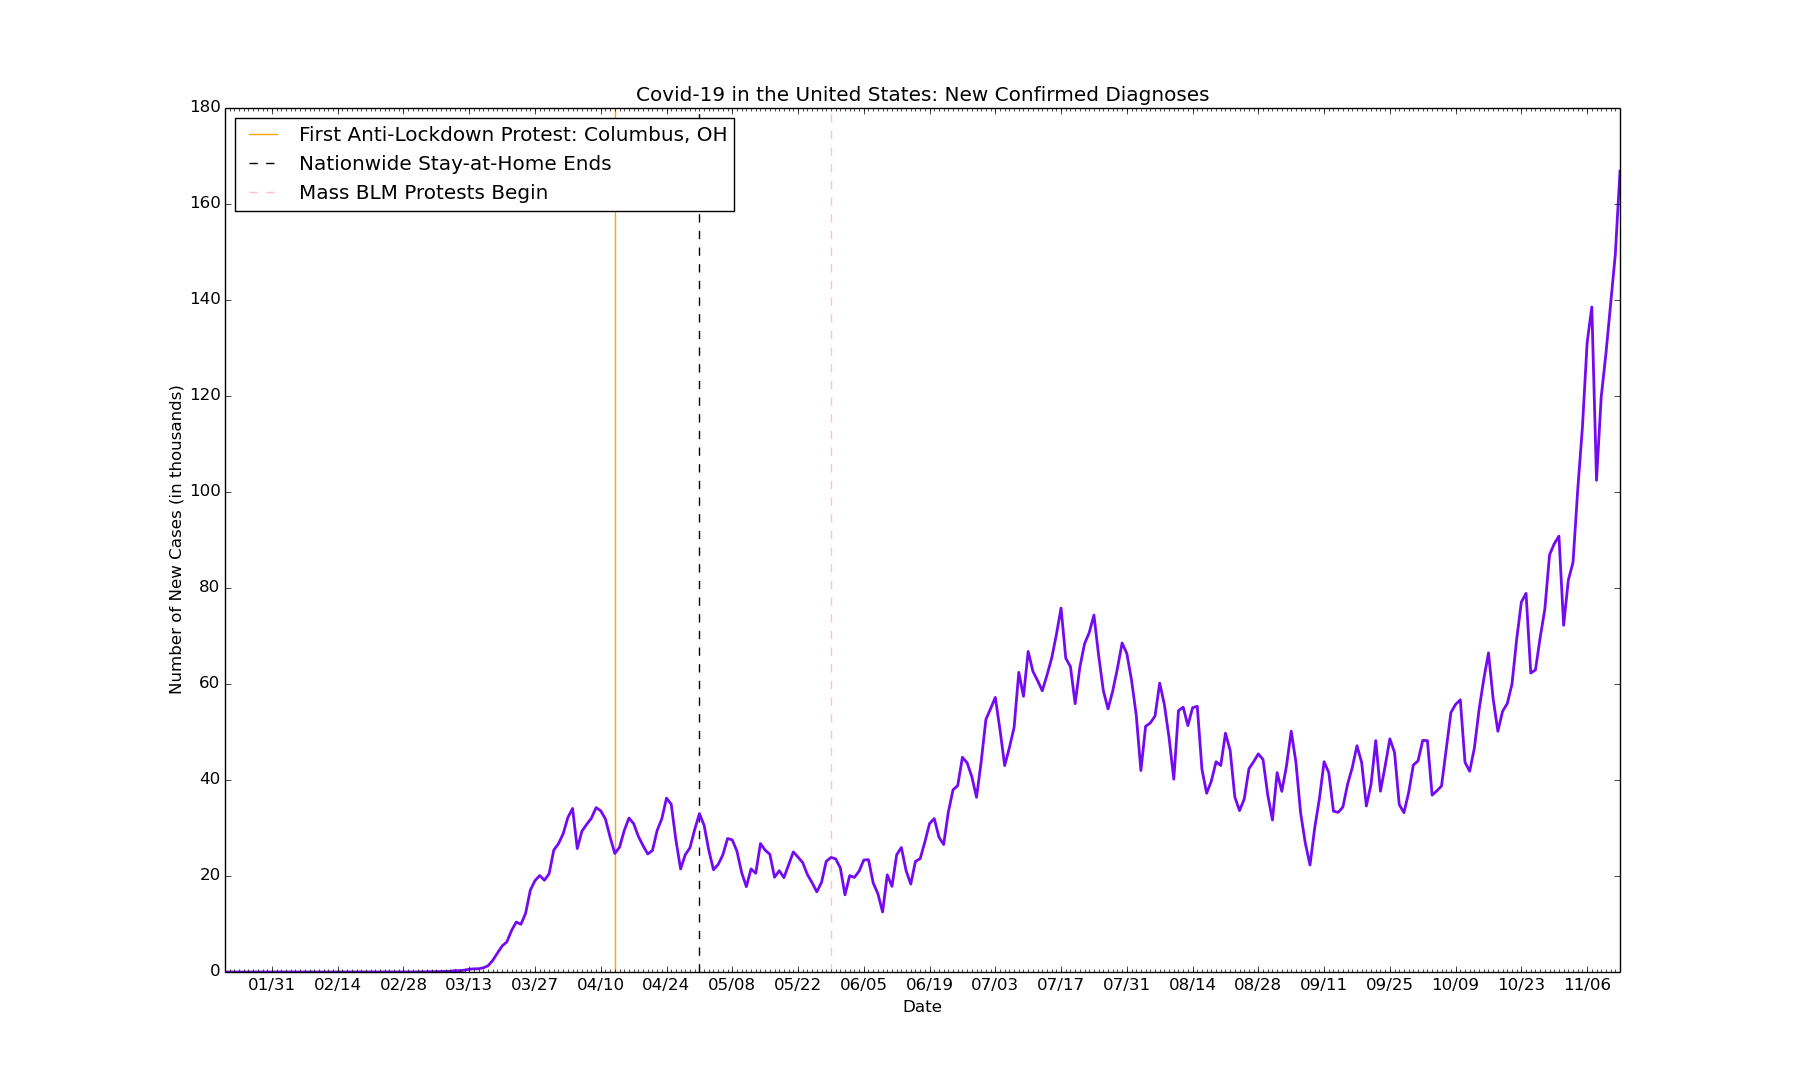
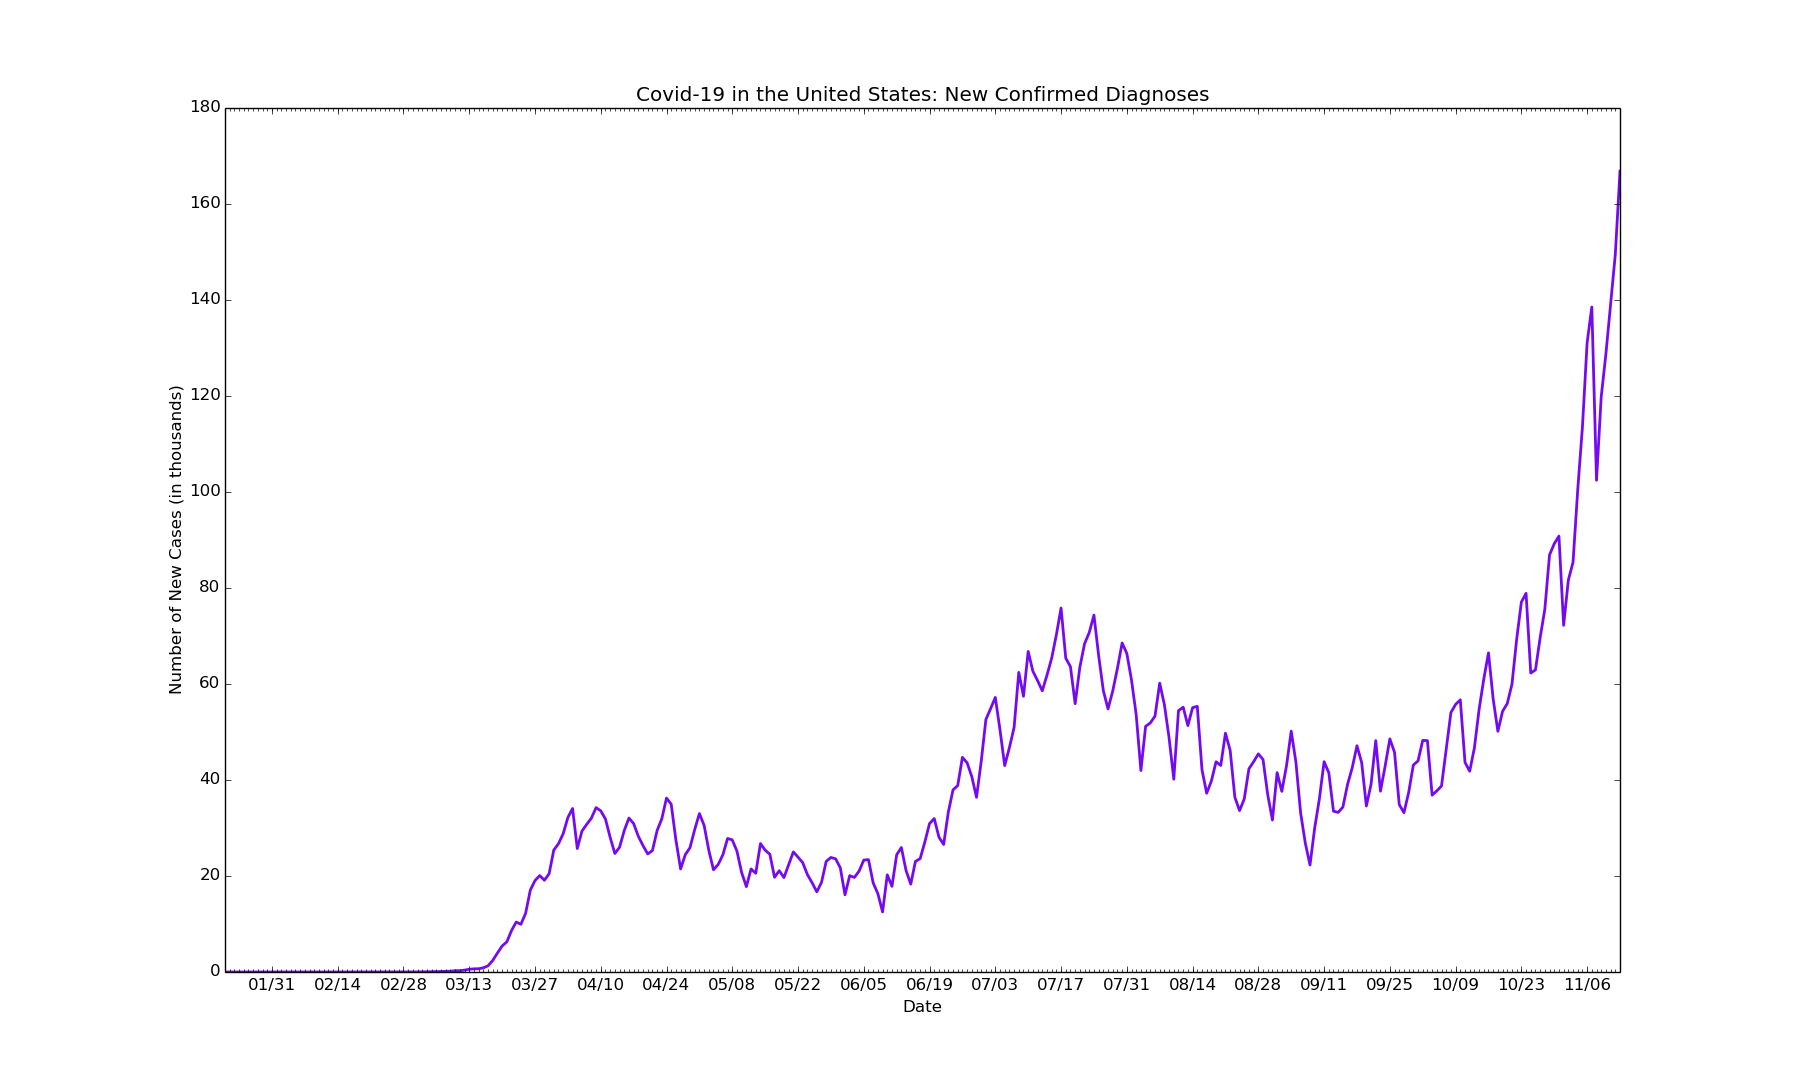
Modify graphs structure

Changed region(s): [[0.1244, 0.0917, 0.4044, 0.2139]]

diff --git a/usa/us-new.py b/usa/us-new.py
@@ -24,16 +24,6 @@ ax.xaxis.set_minor_locator(mdates.WeekdayLocator(
 ax.get_yaxis().set_major_formatter(
     ticker.FuncFormatter(lambda x, pos: format(int(x/1000))))
 
-# first anti-lockdown protest: Columbus, OH on April 13
-plt.axvline(dt.datetime(2020, 4, 13), linestyle='-',
-            color='orange', linewidth=1, label='protest')
-# nationwide lockdown lifted
-plt.axvline(dt.datetime(2020, 5, 1), linestyle='--',
-            color='black', linewidth=1, label='lift')
-# first day of mass BLM protests
-plt.axvline(dt.datetime(2020, 5, 29), linestyle='--',
-            color='pink', linewidth=1, label='lift')
-
 # new cases by day
 new_cases = [1, 0, 0, 1, 1, 2, 0, 0, 0, 1, 1, 1, 3, 0, 0, 1, 0, 0, 0, 0, 0, 0, 0, 0, 0, 0, 0, 0, 0, 0, 2, 0, 0, 0, 0, 0, 1, 0, 4, 5, 18, 15, 28, 26, 64, 77, 101, 144, 148, 291, 269, 393, 565, 662, 676, 872, 1291, 2410, 3948, 5417, 6271, 8631, 10410, 9939, 12226, 17050, 19046, 20093, 19118, 20463, 25396, 26732, 28812, 32182, 34068, 25717, 29362, 30752, 32039, 34243, 33578, 31869, 28057, 24685, 25987, 29465, 32076, 30915, 28274, 26323, 24593, 25304, 29473, 31926, 36229, 34955, 27488, 21464, 24447, 25904, 29674, 33007, 30568, 25375, 21296, 22404, 24420, 27822, 27518, 25158, 20698, 17779, 21475, 20568, 26754, 25382, 24527, 19731, 21107, 19662, 22368, 25017, 23923, 22784, 20286, 18586, 16700, 18677, 23051, 23862, 23581, 21703, 16079, 20073, 19703, 21021, 23324, 23408, 18556, 16316, 12506, 20246, 17849, 24421, 25941, 21141, 18310, 23048, 23620, 27082, 30927, 31963, 28095, 26558, 33315, 37950,
              38848, 44726, 43581, 40691, 36390, 43865, 52609, 54869, 57209, 50445, 43003, 46731, 50940, 62425, 57437, 66786, 62653, 60719, 58579, 61834, 65370, 70254, 75821, 65389, 63591, 55896, 63496, 68377, 70719, 74360, 65944, 58631, 54806, 58540, 63255, 68543, 66364, 60817, 53561, 41963, 51185, 51884, 53305, 60184, 55692, 48769, 40171, 54443, 55170, 51335, 55057, 55348, 42181, 37240, 39794, 43798, 43027, 49743, 46183, 36422, 33618, 36047, 42335, 43814, 45447, 44269, 36939, 31658, 41535, 37630, 42973, 50183, 43725, 33174, 26850, 22292, 30011, 36080, 43811, 41534, 33506, 33252, 34364, 39095, 42592, 47136, 43628, 34586, 39127, 48206, 37666, 42917, 48567, 45752, 34892, 33189, 37368, 43119, 43979, 48249, 48200, 36845, 37737, 38752, 46477, 54043, 55757, 56700, 43677, 41828, 46691, 54696, 61026, 66487, 56862, 50144, 54312, 55934, 59962, 69302, 77057, 78890, 62285, 62938, 69652, 75605, 86898, 89223, 90805, 72226, 81650, 85361, 100456, 113498, 131084, 138546, 102444, 119825, 128772, 139231, 149472, 166850]
@@ -42,8 +32,6 @@ new_cases = [1, 0, 0, 1, 1, 2, 0, 0, 0, 1, 1, 1, 3, 0, 0, 1, 0, 0, 0, 0, 0, 0, 0
 plt.title('Covid-19 in the United States: New Confirmed Diagnoses')
 plt.xlabel('Date')
 plt.ylabel('Number of New Cases (in thousands)')
-plt.legend(['First Anti-Lockdown Protest: Columbus, OH',
-            'Nationwide Stay-at-Home Ends', 'Mass BLM Protests Begin'], loc='upper left')
 
 # create the graph
 plt.plot(x_values, new_cases, color='#730af2', linewidth=2)

diff --git a/nyc/nyc-new-cases.py b/nyc/nyc-new-cases.py
@@ -39,9 +39,6 @@ plt.axvline(dt.datetime(2020, 4, 29), color='black',
 # reopening, phase 1
 plt.axvline(dt.datetime(2020, 6, 8), color='green',
             linewidth=2, label='stay at home')
-# reopening, phase 1
-plt.axvline(dt.datetime(2020, 6, 22), color='orange',
-            linewidth=2, label='funeral')
 # schools reopen
 plt.axvline(dt.datetime(2020, 9, 21), color='red',
             linewidth=2, label='funeral')
@@ -55,7 +52,7 @@ plt.title('Covid-19 in NYC: New Cases')
 plt.xlabel('Date')
 plt.ylabel('Number of New Cases (in thousands)')
 plt.legend(['Schools Closure', 'Non-Essential Businesses Closure', 'Statewide Stay-at-Home Order',
-            'Massive Funeral Crowd in Brooklyn', 'Reopening, Phase 1', 'Reopening, Phase 2', 'Schools Reopen'], loc='upper left')
+            'Massive Funeral Crowd in Brooklyn', 'Reopening, Phase 1', 'Schools Reopen'], loc='upper right')
 
 # create the graph
 plt.plot(x_values, new_cases, color='#730af2', linewidth=2)
